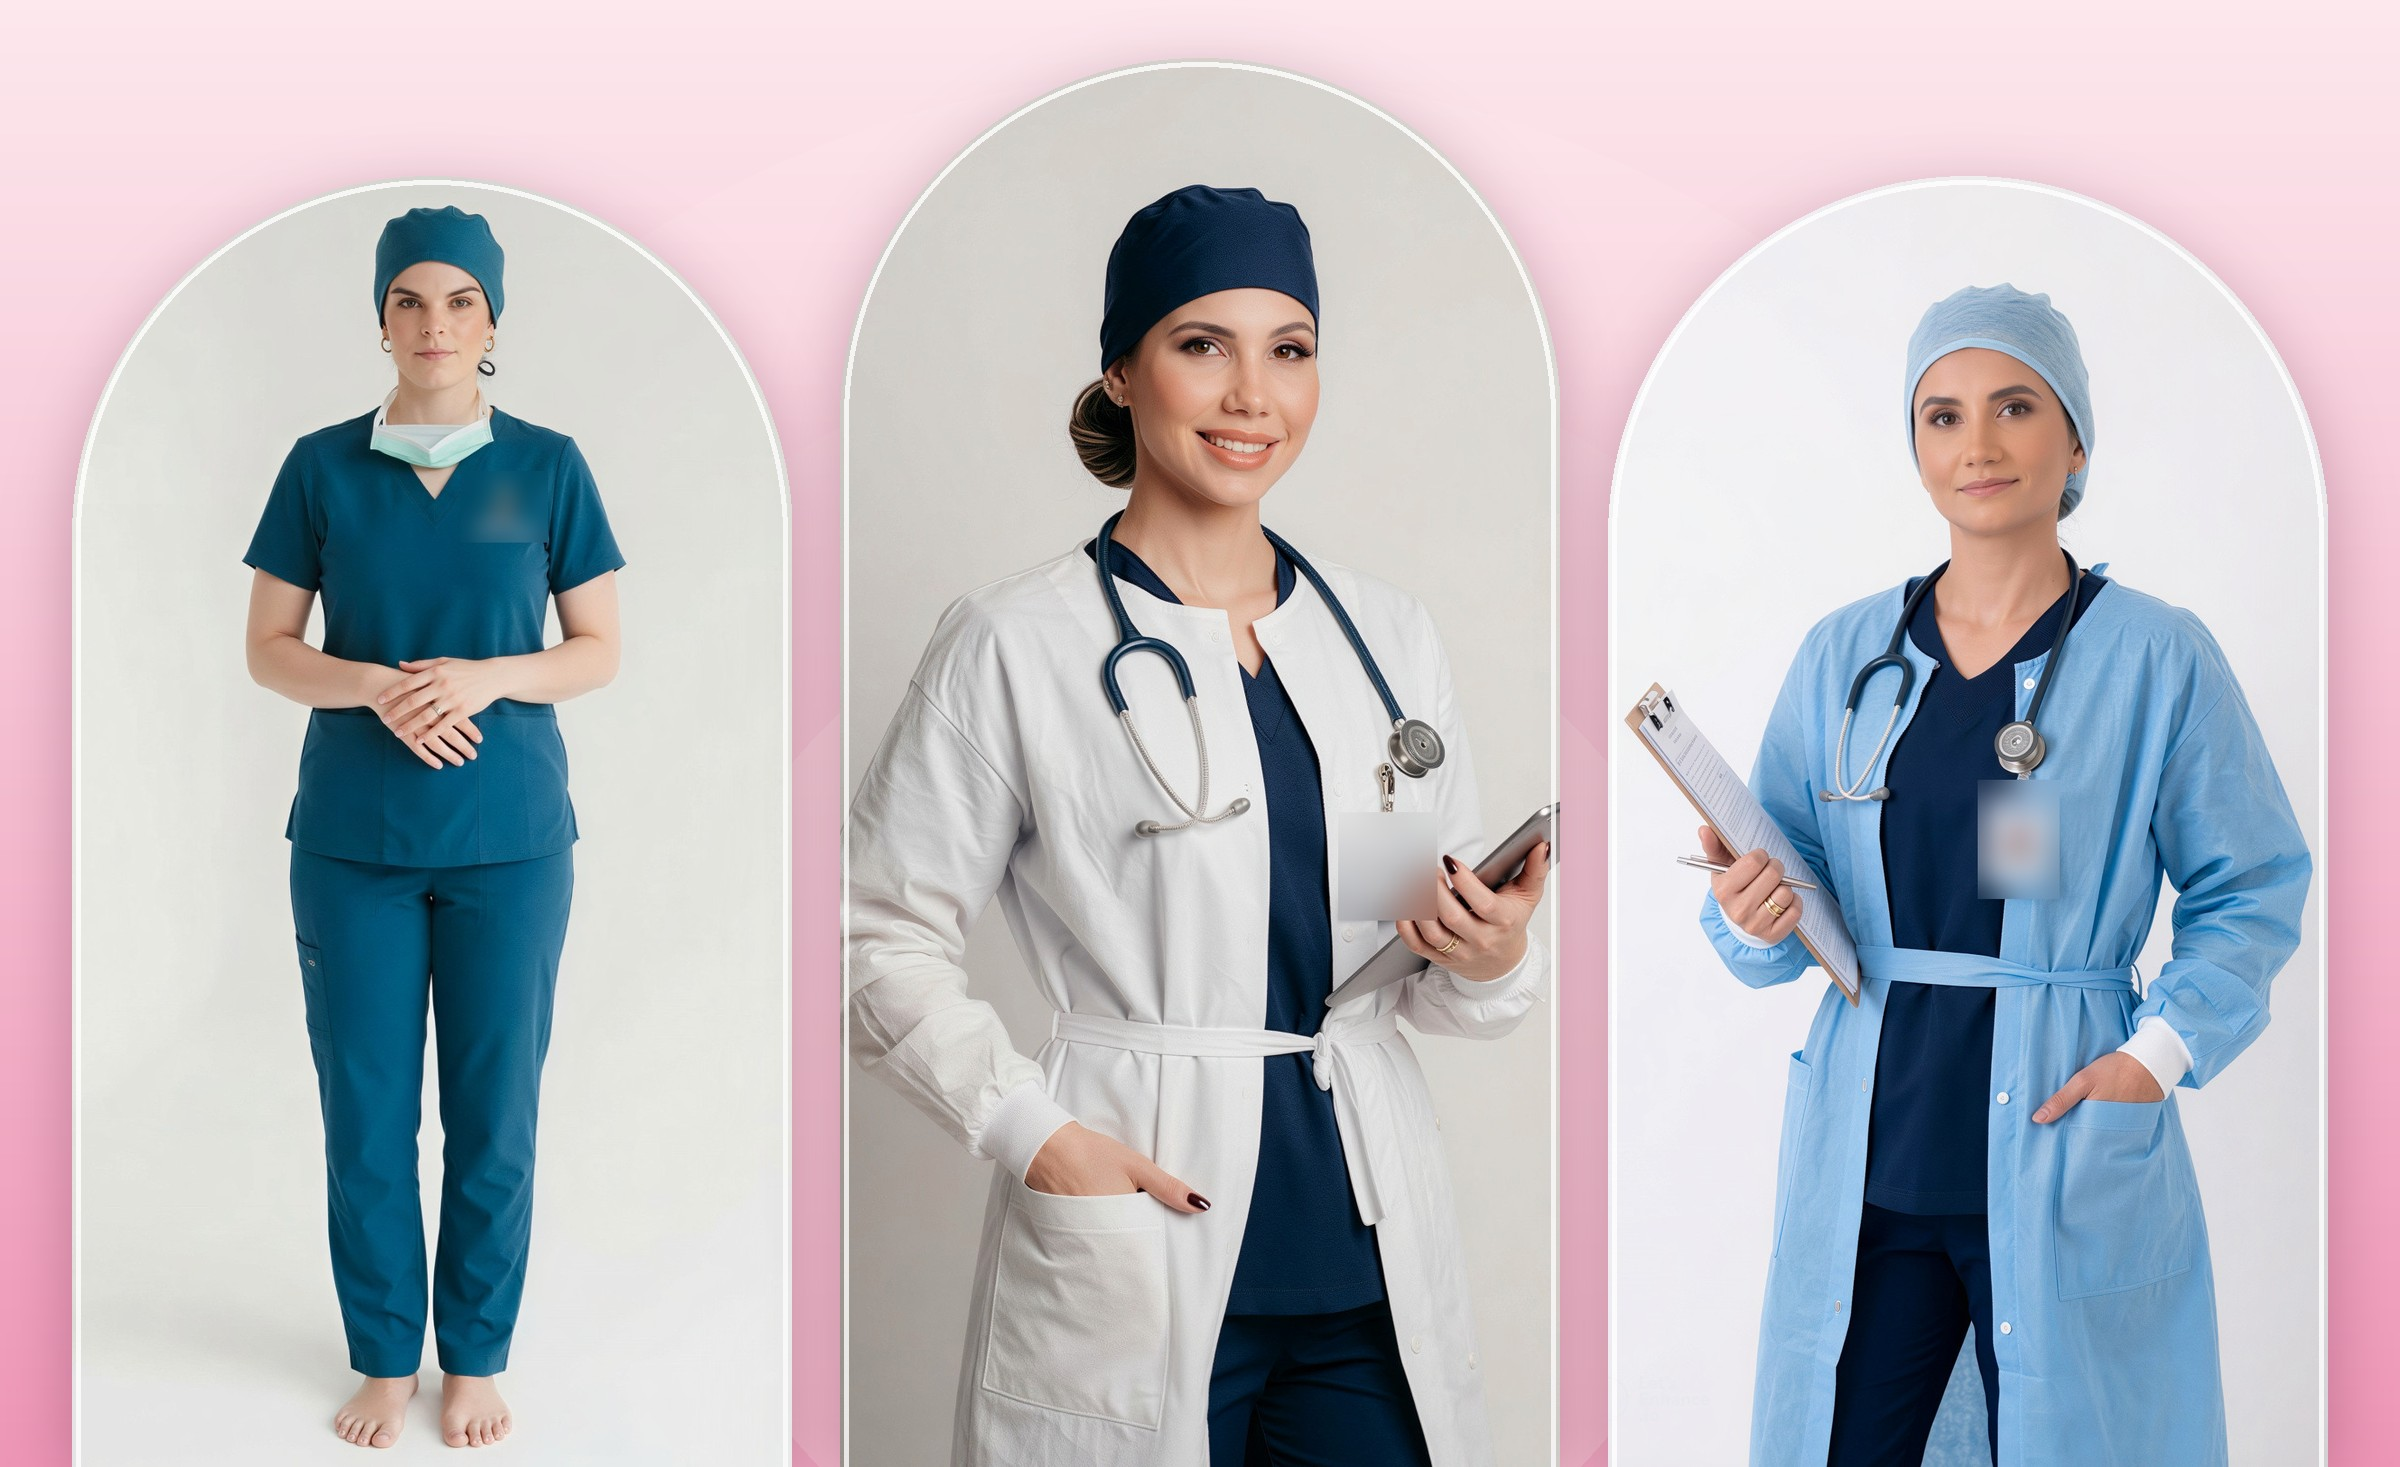
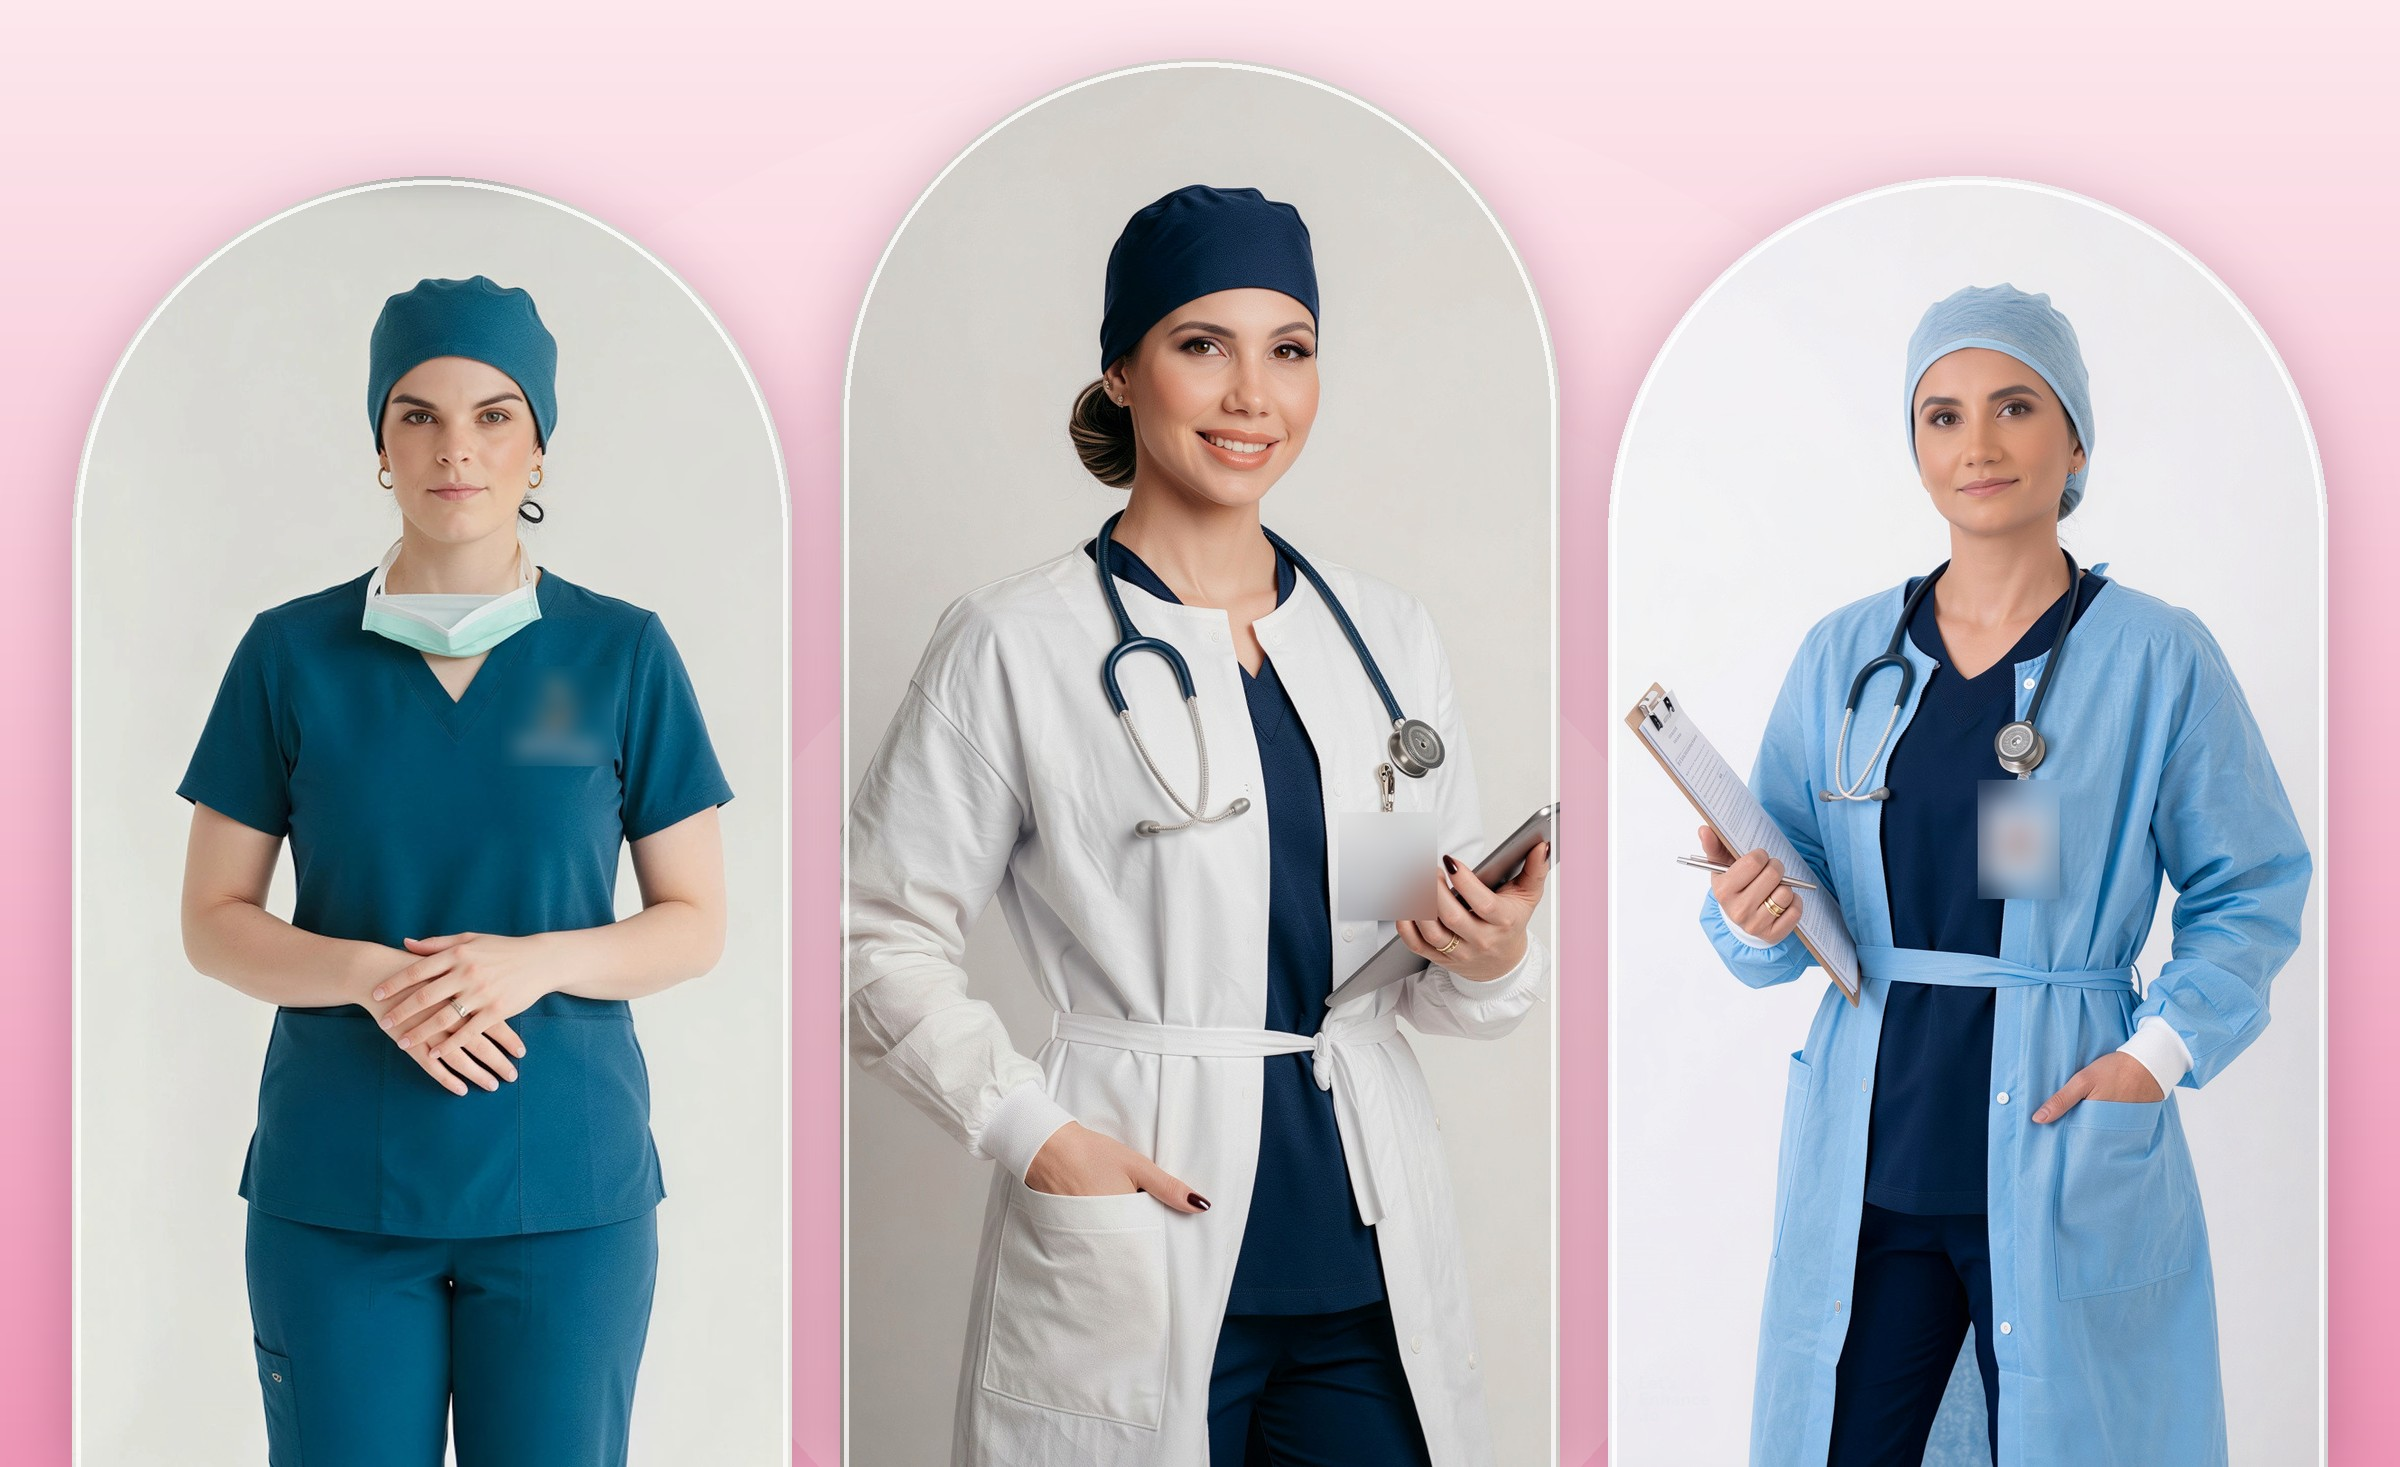
Atualiza a foto de uniforme da Dra. Helena no trio dos bastidores

Changed region(s): [[0.0625, 0.1227, 0.3125, 1.0]]

diff --git a/painel.html b/painel.html
@@ -7,9 +7,9 @@
 <title>Painel | Casa Aurora (demonstração)</title>
 <link rel="preload" href="assets/fonts/fraunces-normal-400.woff2" as="font" type="font/woff2" crossorigin>
 <link rel="preload" href="assets/fonts/nunito-sans-normal-400.woff2" as="font" type="font/woff2" crossorigin>
-<link rel="stylesheet" href="css/fonts.css?v=20261018u1">
-<link rel="stylesheet" href="css/site.css?v=20261018u1">
-<link rel="stylesheet" href="css/painel.css?v=20261018u1">
+<link rel="stylesheet" href="css/fonts.css?v=20261018u2">
+<link rel="stylesheet" href="css/site.css?v=20261018u2">
+<link rel="stylesheet" href="css/painel.css?v=20261018u2">
 </head>
 <body class="pn">
 <header class="pn-topo">
@@ -109,8 +109,8 @@
 
 <div class="toasts" id="toasts" aria-live="polite"></div>
 
-<script src="js/config.js?v=20261018u1"></script>
-<script src="js/db.js?v=20261018u1"></script>
-<script src="js/painel.js?v=20261018u1"></script>
+<script src="js/config.js?v=20261018u2"></script>
+<script src="js/db.js?v=20261018u2"></script>
+<script src="js/painel.js?v=20261018u2"></script>
 </body>
 </html>

diff --git a/index.html b/index.html
@@ -9,8 +9,8 @@
 <meta name="theme-color" content="#f9dfe4">
 <link rel="preload" href="assets/fonts/fraunces-normal-400.woff2" as="font" type="font/woff2" crossorigin>
 <link rel="preload" href="assets/fonts/nunito-sans-normal-400.woff2" as="font" type="font/woff2" crossorigin>
-<link rel="stylesheet" href="css/fonts.css?v=20261018u1">
-<link rel="stylesheet" href="css/site.css?v=20261018u1">
+<link rel="stylesheet" href="css/fonts.css?v=20261018u2">
+<link rel="stylesheet" href="css/site.css?v=20261018u2">
 </head>
 <body class="lp">
 
@@ -135,9 +135,9 @@
   <p><a href="painel.html">Área da equipe</a></p>
 </footer>
 
-<script src="js/config.js?v=20261018u1"></script>
-<script src="js/db.js?v=20261018u1"></script>
-<script src="js/site.js?v=20261018u1"></script>
-<script src="js/assistant.js?v=20261018u1"></script>
+<script src="js/config.js?v=20261018u2"></script>
+<script src="js/db.js?v=20261018u2"></script>
+<script src="js/site.js?v=20261018u2"></script>
+<script src="js/assistant.js?v=20261018u2"></script>
 </body>
 </html>
